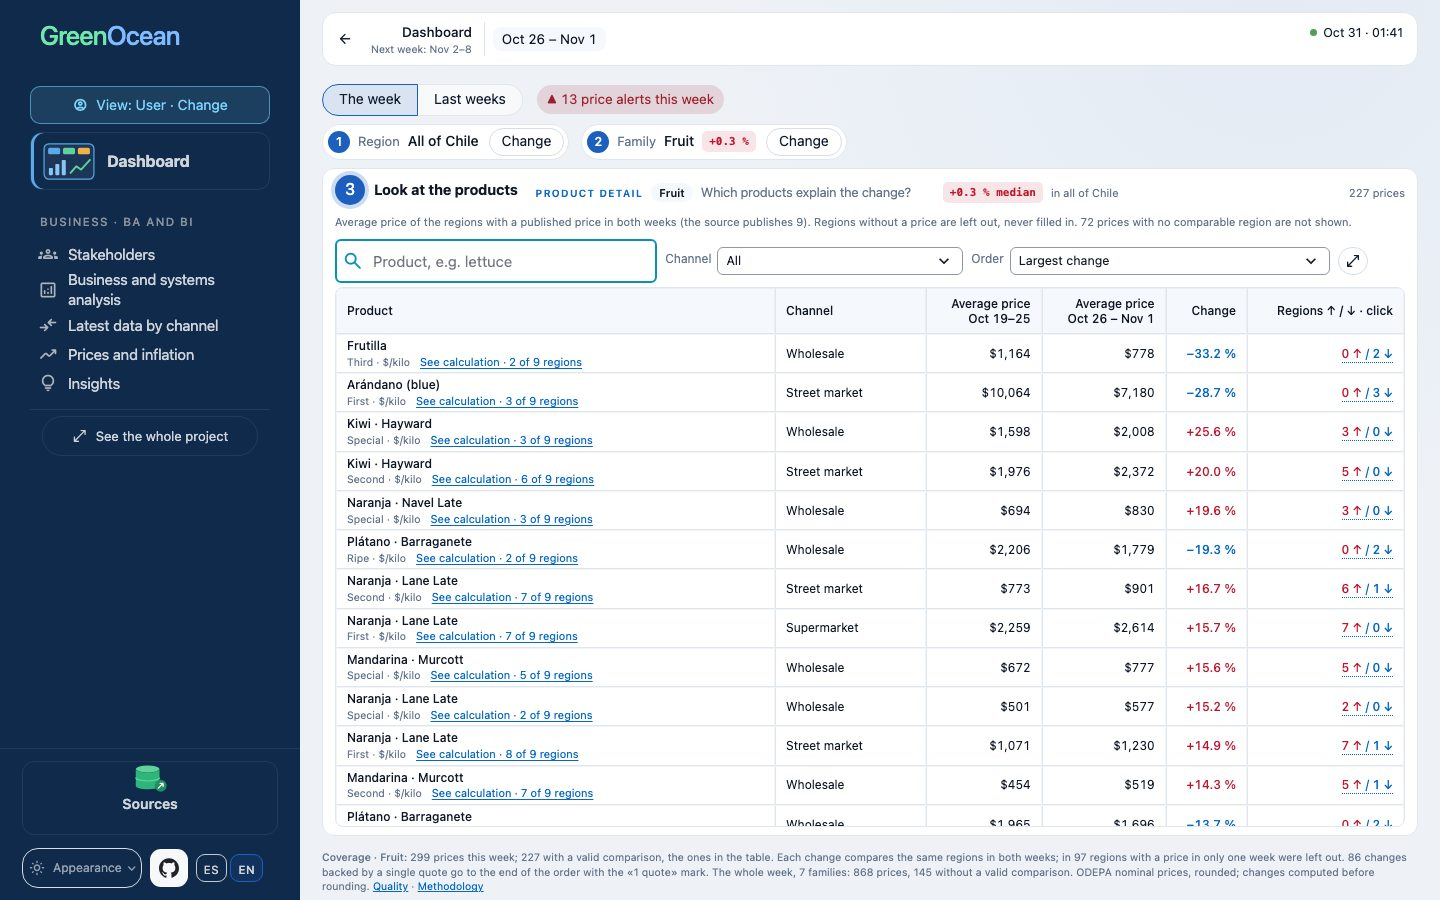
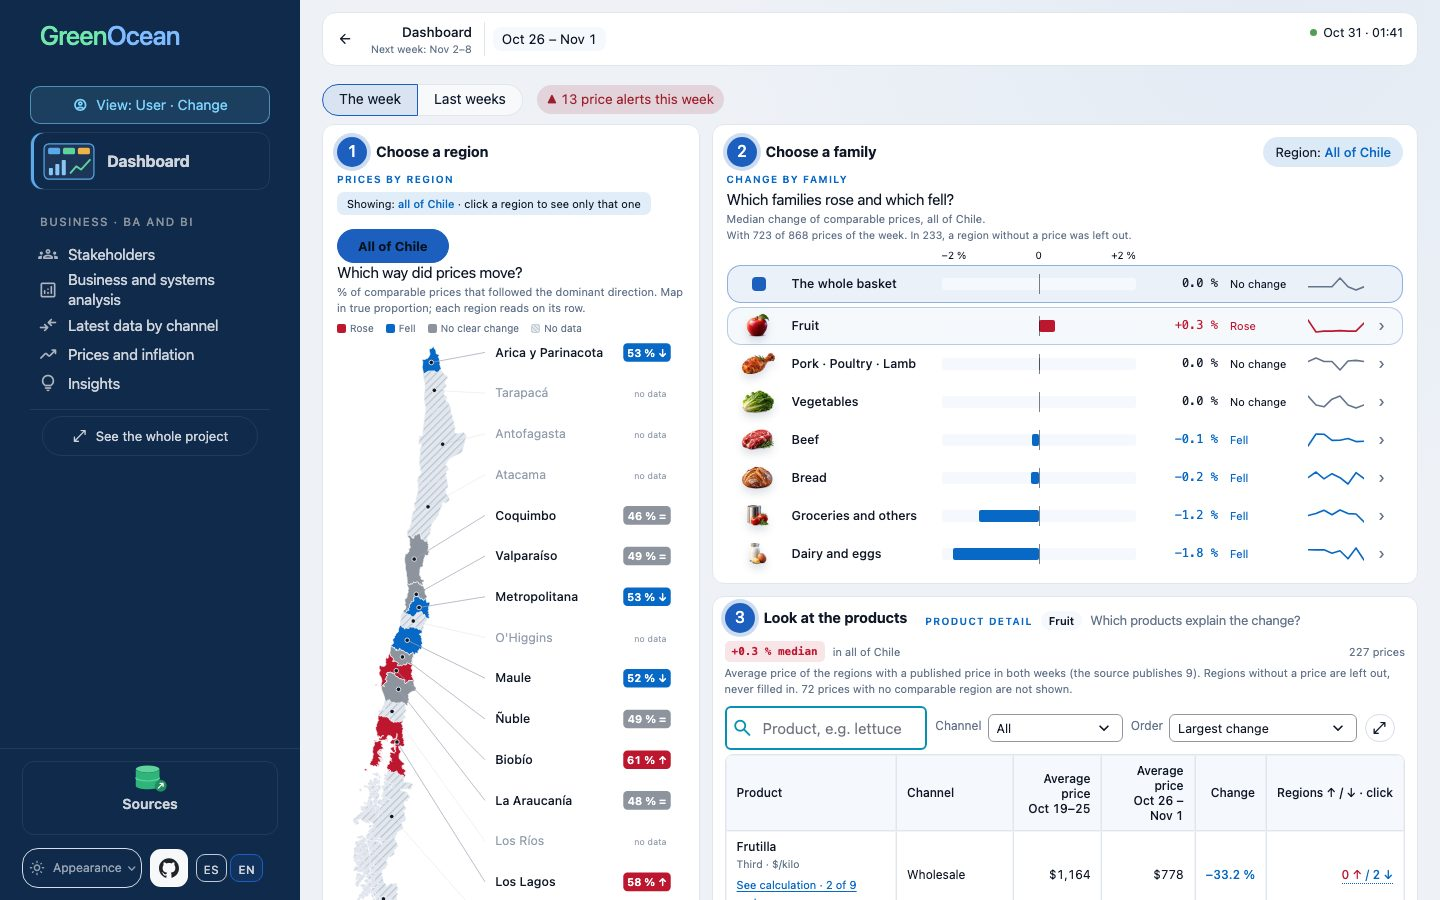
fix(dashboard): el Dashboard nunca pliega sus pasos y el panorama queda completo (D-446)
El pliegue de D-408 vale solo para las páginas de cada canal; la tabla
del Dashboard se amplía con su propio botón.

diff --git a/tests/test_panorama_steps.py b/tests/test_panorama_steps.py
@@ -65,8 +65,8 @@ def test_d352_todo_chile_opens_step_two_a_family_opens_step_three_and_an_open_st
     family = draw("consulta", link="?_home_region=Todas&_home_week=2026-10-12&familia=Frutas&_home_step=family")
     text = page(family)
     assert family.session_state["home_family_done"] and "Elige primero" not in text
-    assert 'class="mock-lock"' not in text and 'class="mock-movement-row' not in text  # D-408: steps 1 and 2 fold
-    assert '<span>Familia</span><strong>Frutas</strong>' in text  # the family chosen, in its folded line
+    assert 'class="mock-lock"' not in text  # D-446: the Dashboard keeps the three panels, nothing folds
+    assert re.search(r"mock-movement-row (rise|fall|neutral) selected", text) and 'class="mock-chosen"' not in text
     # Changing the region afterwards keeps both open: the flags stay in the session.
     again = draw(
         "consulta",
@@ -165,33 +165,14 @@ FAMILY_CLICK = "?_home_region=Todas&_home_week=2026-10-12&familia=Frutas&_home_s
 
 
 @needs_database
-def test_d408_a_family_chosen_folds_steps_one_and_two_into_a_line_with_cambiar():
-    app = draw("profesional", state={"home_region_done": True, "home_family_done": True}, query={"familia": "Frutas"})
+def test_d446_the_dashboard_never_folds_its_steps_when_a_family_is_chosen():
+    # D-408 folds the steps only on a channel page; the Dashboard keeps the map, the families and the table together.
+    app = draw("profesional", state={"home_region_done": True, "home_family_done": True}, link=FAMILY_CLICK)
     text = page(app)
     assert not app.exception
-    assert '<div class="mock-chosen"><b>1</b><span>Región</span><strong>Todo Chile</strong></div>' in text
-    assert '<b>2</b><span>Familia</span><strong>Frutas</strong><span class="mock-products-chip' in text
-    assert (
-        'class="mock-chile-map"' not in text and 'class="mock-movement-row' not in text
-    )  # the map and the families leave
-    assert "3</b><span>Mira los productos" in text and 'class="mock-products-table"' in text
-    assert {"home_change_region", "home_change_family"} <= {str(button.key) for button in app.button}
-    # «Cambiar» opens the steps again, with the family still chosen and nothing locked
-    app.button(key="home_change_family").click().run()
-    text = page(app)
     assert 'class="mock-chile-map"' in text and re.search(r"mock-movement-row (rise|fall|neutral) selected", text)
-    assert 'class="mock-chosen"' not in text and 'class="mock-lock"' not in text
-
-
-@needs_database
-def test_d408_choosing_a_family_again_folds_the_steps_and_a_region_alone_does_not():
-    state = {"home_region_done": True, "home_family_done": True, "home_expanded": True}
-    region = draw(
-        "profesional", state=state, link="?_home_region=Todas&_home_week=2026-10-12&familia=Frutas&_home_step=region"
-    )
-    assert region.session_state["home_expanded"] and 'class="mock-chile-map"' in page(region)  # still choosing
-    family = draw("profesional", state=state, link=FAMILY_CLICK)
-    assert "home_expanded" not in family.session_state and 'class="mock-chosen"' in page(family)
+    assert 'class="mock-products-table"' in text and 'class="mock-chosen"' not in text
+    assert not {"home_change_region", "home_change_family"} & {str(button.key) for button in app.button}
 
 
 def test_d408_the_folded_table_takes_the_height_and_its_rows_two_lines():

diff --git a/bi/dashboard.py b/bi/dashboard.py
@@ -4595,9 +4595,10 @@ def show_market_overview(mode, prefix):
     if home_view == HOME_VIEWS[1]:
         show_weeks_panel(mode)
         return
-    # D-408: once a family is chosen, the steps 1 and 2 fold into one line each, with what was chosen and «Cambiar»,
-    # and the products table takes the whole width and the height they leave; «Cambiar» opens them again.
-    folded = family_open and not st.session_state.get(scoped(HOME_EXPANDED))
+    # D-408: on a channel page, once a family is chosen, the steps 1 and 2 fold into one line each, with what was chosen
+    # and «Cambiar», and the products table takes the whole width and the height they leave; «Cambiar» opens them again.
+    # D-446: the Dashboard never folds: its three panels stay together, and the table has its own enlarge button.
+    folded = channel is not None and family_open and not st.session_state.get(scoped(HOME_EXPANDED))
 
     def show_products():
         with st.container(key='home_products'):

diff --git a/tests/test_home_mockup.py b/tests/test_home_mockup.py
@@ -292,7 +292,7 @@ def test_d092_region_and_family_clicks_fill_the_products_table():
     assert app.session_state['dashboard_region'] == 'Región de Coquimbo'
     markup = ' '.join(block.value for block in app.markdown)
     assert 'mock-products-family">Frutas' in markup and 'en Coquimbo' in markup
-    assert '<span>Región</span><strong>Coquimbo</strong>' in markup  # D-408: the map folds into its chosen line
+    assert 'class="mock-chile-map"' in markup and 'class="mock-chosen"' not in markup  # D-446: the map stays
     table = re.search(r'<div class="mock-products-table".*?</table>', markup).group(0)
     assert table.count('<tr>') > 1 and 'Regiones ↑ / ↓' in table
     # Channel and order filter the same rows; prices stay real.

diff --git a/tests/test_dashboard.py b/tests/test_dashboard.py
@@ -133,8 +133,8 @@ def test_hover_hint_is_plain_text_and_escaped():
 
 @needs_database
 def test_dashboard_opens_with_data_and_diagrams_have_their_own_page():
-    # D-408: with a family chosen the steps 1 and 2 fold; «Cambiar» (home_expanded) shows the three panels together.
-    app = draw_page(dashboard.HOME_PAGE, state={dashboard.HOME_EXPANDED: True}, query=PINNED_HOME)
+    # D-446: the Dashboard never folds its steps, so the three panels are always together.
+    app = draw_page(dashboard.HOME_PAGE, query=PINNED_HOME)
     assert not app.exception and not app.tabs
     texts = " ".join(block.value for block in app.markdown)
     assert (

diff --git a/docs/negocio/PRD.md b/docs/negocio/PRD.md
@@ -4,7 +4,7 @@
 |---|---|
 | Proyecto | GreenOcean |
 | Tipo de documento | Documento de requisitos del producto (PRD) |
-| Versión | 3.17 |
+| Versión | 3.18 |
 | Fecha | 02-11-2026 |
 | Estado | Vigente |
 | Responsable | El autor |
@@ -157,7 +157,7 @@ Con la carga del 31-10-2026, la base tiene 821.072 precios semanales en 252 sema
 Estas son seis capturas reales, del 02-11-2026, de cinco páginas principales y en los cuatro temas de color. El Dashboard aparece dos veces: como lo ve el Usuario y como lo ve el Profesional. El tema oscuro es el de entrada.
 
 - **Menú:** agrupa las páginas en cinco secciones: Negocio · BA y BI, Ingeniería de datos, DevOps y seguridad, Stack y evidencia, y Calidad. La primera sigue el orden en que la lee un lector: Interesados, Análisis de negocio y sistemas, Dashboard, Último dato por canal, Precios e inflación e Insights.
-- **Dashboard:** se lee en tres pasos numerados. Primero se elige una región o todo Chile, después una familia, y al final se miran sus productos. Cada paso se abre al completar el anterior. Elegida la familia, los pasos 1 y 2 se pliegan en una línea con «Cambiar» y la tabla de productos toma la pantalla (D-408).
+- **Dashboard:** se lee en tres pasos numerados. Primero se elige una región o todo Chile, después una familia, y al final se miran sus productos. Cada paso se abre al completar el anterior. Los tres pasos quedan siempre juntos en la pantalla; la tabla de productos se amplía con su propio botón (D-446). Solo en la página de un canal, elegida la familia, los pasos 1 y 2 se pliegan en una línea con «Cambiar» (D-408).
 - **Último dato por canal:** una tarjeta por canal, con su última semana, sus precios, su variación y las familias que publica. Cada tarjeta abre ese canal con los pasos del Dashboard, aunque la otra fuente todavía no publique esa semana (D-404 a D-406).
 - **Stack y evidencia:** dos vistas. «Herramientas» explica cada herramienta; «Flujo del sistema en vivo» muestra las piezas reales, lo que se dicen y la carga en curso (D-412).
 
@@ -243,3 +243,4 @@ Las siglas y los términos de este documento se definen en el [Glosario](GLOSARI
 | 3.15 | 02-11-2026 | «Panorama de precios» pasa a llamarse «Dashboard» y encabeza el menú (D-442) |
 | 3.16 | 02-11-2026 | Mapa de interés: cada interesado en un anillo (alto, medio, bajo) con su justificación (3.4, D-444) |
 | 3.17 | 02-11-2026 | Capturas nuevas de las seis pantallas, con el Dashboard y el menú actuales (7, D-445) |
+| 3.18 | 02-11-2026 | El Dashboard ya no pliega los pasos 1 y 2: el panorama queda completo, y la captura M-1 lo muestra así (7, D-446) |

diff --git a/docs/en/negocio/PRD.md b/docs/en/negocio/PRD.md
@@ -4,7 +4,7 @@
 |---|---|
 | Project | GreenOcean |
 | Document type | Product Requirements Document (PRD) |
-| Version | 3.17 |
+| Version | 3.18 |
 | Date | 2026-11-02 |
 | Status | Current |
 | Owner | The author |
@@ -157,7 +157,7 @@ With the load of 2026-10-31, the database holds 821,072 weekly prices over 252 w
 These are six real captures, of 2026-11-02, of five main pages and in the four color themes. The Dashboard appears twice: as the User sees it and as the Professional sees it. The dark theme is the one on entry.
 
 - **Menu:** it groups the pages in five sections: Business · BA and BI, Data engineering, DevOps and security, Stack and evidence, and Quality. The first follows a reader's reading order: Stakeholders, Business and systems analysis, Dashboard, Latest data by channel, Prices and inflation and Insights.
-- **Dashboard:** it reads in three numbered steps. First a region or all of Chile is chosen, then a family, and last its products are shown. Each step opens when the one before is done. Once the family is chosen, steps 1 and 2 fold into one line with «Change» and the products table takes the screen (D-408).
+- **Dashboard:** it reads in three numbered steps. First a region or all of Chile is chosen, then a family, and last its products are shown. Each step opens when the one before is done. The three steps always stay together on the screen; the products table is enlarged with its own button (D-446). Only on a channel page, once the family is chosen, steps 1 and 2 fold into one line with «Change» (D-408).
 - **Latest data by channel:** one card per channel, with its latest week, its prices, its change and the families it publishes. Each card opens that channel with the Overview's steps, even if the other source has not published that week yet (D-404 to D-406).
 - **Stack and evidence:** two views. «Tools» explains each tool; «Live system flow» shows the real pieces, what they say to each other and the running load (D-412).
 
@@ -243,3 +243,4 @@ The acronyms and terms of this document are defined in the [Glossary](GLOSARIO.m
 | 3.15 | 2026-11-02 | «Price overview» is renamed «Dashboard» and leads the menu (D-442) |
 | 3.16 | 2026-11-02 | Interest map: each stakeholder on a ring (high, medium, low) with its reason (3.4, D-444) |
 | 3.17 | 2026-11-02 | New captures of the six screens, with the current Dashboard and menu (7, D-445) |
+| 3.18 | 2026-11-02 | The Dashboard no longer folds steps 1 and 2: the overview stays whole, and capture M-1 shows it that way (7, D-446) |

diff --git a/docs/DECISIONES.md b/docs/DECISIONES.md
@@ -3489,3 +3489,10 @@ Desde D-279, el plan de capacidad y escalabilidad es un documento propio: `docs/
 - **Capturas:** las seis capturas de `docs/img/` y `docs/img/en/` se toman de nuevo, sin el respaldo local (D-392): mostraban «Panorama de precios» y el menú anterior a D-442. M-1 muestra el Dashboard con la región y la familia elegidas; M-2, con la región elegida. PRD 3.17.
 - **Medición:** 0 textos encimados en los diagramas a 1440 × 790, 1280 × 800, 1920 × 1000 y 1100 × 650, en español e inglés (Playwright, como D-440).
 - **Pruebas:** las de cada diagrama (`tests/test_architecture.py`, `tests/test_doc_diagrams.py` y las demás) con los textos nuevos, y `tests/test_i18n.py` sin español en inglés.
+
+## D-446 · El Dashboard nunca pliega sus pasos: el panorama queda completo
+
+- **Pedido del autor:** al elegir la región y la familia, el Dashboard mostraba solo la tabla y el mapa y las familias desaparecían. El pliegue de D-408 era para las páginas de cada canal, no para el Dashboard, que siempre debe mostrar el panorama completo; la tabla ya tiene su botón para ampliarse (D-317).
+- **Decisión:** en el Dashboard, los pasos 1, 2 y 3 quedan siempre juntos: el mapa, las familias con la elegida marcada y la tabla de productos. Para ver más filas, el botón de ampliar abre la tabla al tamaño de la ventana. Las páginas de cada canal («Último dato por canal») siguen plegando los pasos 1 y 2 al elegir la familia, con «Cambiar», como dice D-408.
+- **Documentos:** PRD 3.18 (7 y la captura M-1, en `docs/img/` y `docs/img/en/`) e Índice de decisiones, en los dos idiomas.
+- **Pruebas:** `tests/test_panorama_steps.py::test_d446_the_dashboard_never_folds_its_steps_when_a_family_is_chosen` y `tests/test_home_mockup.py::test_d092_region_and_family_clicks_fill_the_products_table` (el mapa sigue a la vista); `tests/test_channel_latest.py::test_d408_a_channel_folds_its_steps_like_the_panorama` sigue verde.

diff --git a/docs/arquitectura/INDICE_DECISIONES.md b/docs/arquitectura/INDICE_DECISIONES.md
@@ -4,8 +4,8 @@
 |---|---|
 | Proyecto | GreenOcean |
 | Tipo de documento | Índice de decisiones |
-| Versión | 2.2 |
-| Fecha | 01-11-2026 |
+| Versión | 2.3 |
+| Fecha | 02-11-2026 |
 | Estado | Vigente |
 | Responsable | El autor |
 | Propósito | Reunir, por tema, las decisiones que cambian la arquitectura, los datos, la seguridad o la operación. |
@@ -169,7 +169,8 @@ Cómo se lee el panel en una sola pantalla y en dos idiomas.
 | El encabezado solo ubica; la información va en el contenido | — | D-398 |
 | Cada canal se abre con los pasos del Panorama, en su propia última semana | — | D-405 |
 | Cada página principal cabe también en 1280 × 800 | — | D-407 |
-| Elegida la familia, los pasos 1 y 2 se pliegan y la tabla de productos toma la pantalla | — | D-408 |
+| En un canal, elegida la familia, los pasos 1 y 2 se pliegan y la tabla de productos toma la pantalla | — | D-408 |
+| El Dashboard nunca pliega sus pasos: el panorama queda completo | — | D-446 |
 
 ## 9. Documentación
 
@@ -197,3 +198,4 @@ Cómo se explica el proyecto.
 | 2.0 | 25-10-2026 | Un resumen con tres diagramas; cada fila dice primero qué se decidió y enlaza su registro de arquitectura por su nombre (D-290, documentos para todo lector) |
 | 2.1 | 31-10-2026 | Las decisiones grandes desde D-290: fuentes retrasadas, calidad en dos partes, las tres vistas, la ventana de la carga manual, los dos informes y las cuatro carpetas de documentos; redacción revisada (D-381, D-388) |
 | 2.2 | 01-11-2026 | Las decisiones grandes de la parte final: el límite de intentos, «Configuración» y su aviso de tokens, el flujo en vivo y su imagen en el SAD, el encabezado, los canales y una pantalla a 1280 × 800 (D-393 a D-414) |
+| 2.3 | 02-11-2026 | El pliegue de los pasos vale solo para los canales; el Dashboard queda completo (D-446) |

diff --git a/docs/en/arquitectura/INDICE_DECISIONES.md b/docs/en/arquitectura/INDICE_DECISIONES.md
@@ -4,8 +4,8 @@
 |---|---|
 | Project | GreenOcean |
 | Document type | Decision Index |
-| Version | 2.2 |
-| Date | 2026-11-01 |
+| Version | 2.3 |
+| Date | 2026-11-02 |
 | Status | Current |
 | Owner | The author |
 | Purpose | Gather, by theme, the decisions that change the architecture, the data, the security or the operations. |
@@ -169,7 +169,8 @@ How the panel reads on a single screen and in two languages.
 | The header only places the reader; the information goes in the content | — | D-398 |
 | Each channel opens with the Overview's steps, in its own latest week | — | D-405 |
 | Each main page also fits 1280 × 800 | — | D-407 |
-| Once the family is chosen, steps 1 and 2 fold and the products table takes the screen | — | D-408 |
+| On a channel, once the family is chosen, steps 1 and 2 fold and the products table takes the screen | — | D-408 |
+| The Dashboard never folds its steps: the overview stays whole | — | D-446 |
 
 ## 9. Documentation
 
@@ -197,3 +198,4 @@ How the project is explained.
 | 2.0 | 2026-10-25 | A summary with three diagrams; each row says first what was decided and links its architecture record by its name (D-290, documents for every reader) |
 | 2.1 | 2026-10-31 | The major decisions since D-290: late sources, quality in two parts, the three views, the manual load window, the two reports and the four folders of documents; wording reviewed (D-381, D-388) |
 | 2.2 | 2026-11-01 | The major decisions of the final part: the limit of attempts, «Settings» and its token warning, the live flow and its picture in the SAD, the header, the channels and one screen at 1280 × 800 (D-393 to D-414) |
+| 2.3 | 2026-11-02 | The folding of the steps applies only to the channels; the Dashboard stays whole (D-446) |
